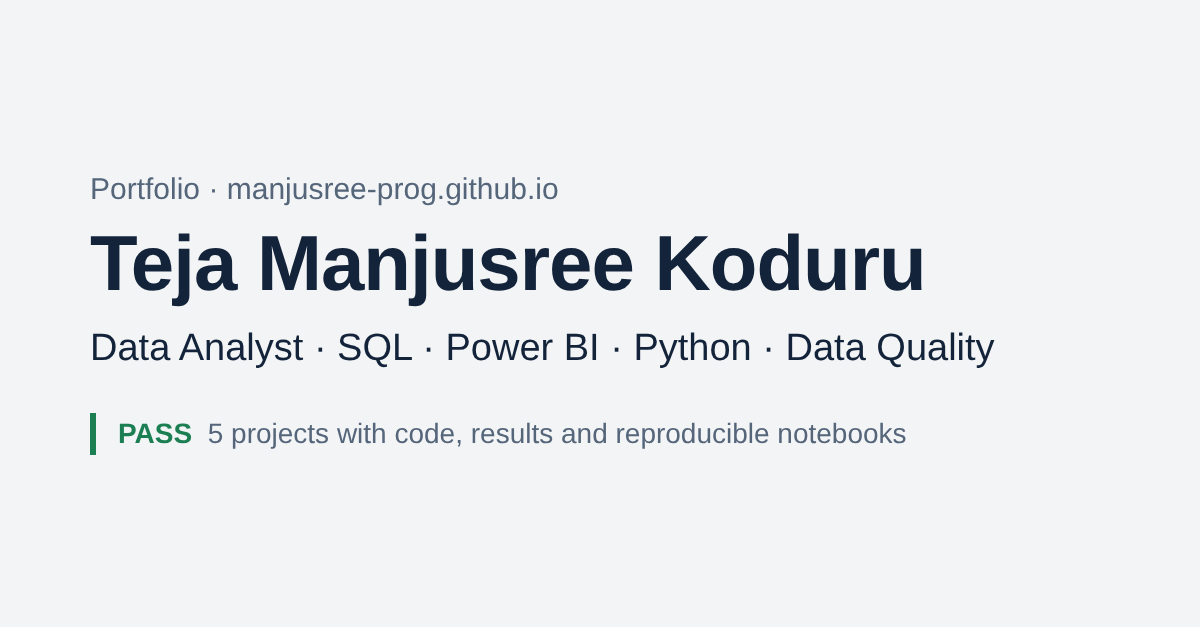
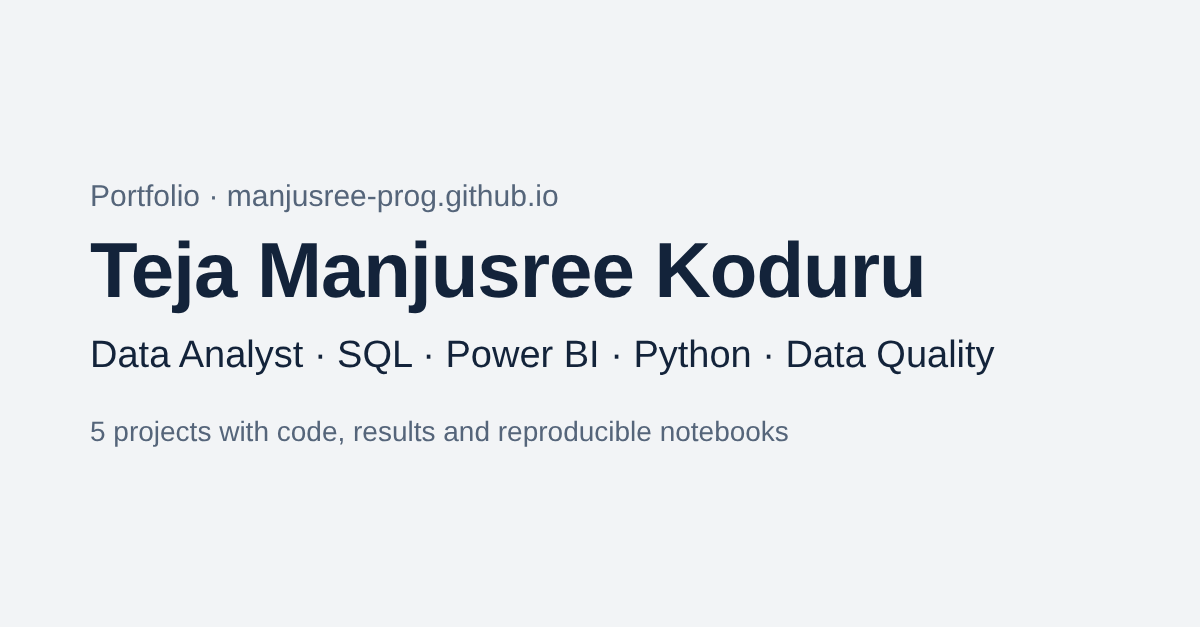
Remove checks list from hero section

diff --git a/index.html b/index.html
@@ -74,15 +74,7 @@ footer .actions{margin-top:0}
 <header class="hero">
   <h1>Teja Manjusree Koduru</h1>
   <p class="role">Data analyst in Essen, Germany. I work with SQL, Power BI and Python, and I bring five years of software quality assurance to every analysis: I check the data before I trust the result.</p>
-  <div class="run" aria-label="Checks I run before reporting a result">
-    <p>Checks I run before any result leaves my notebook</p>
-    <ul>
-      <li><span class="ok">PASS</span><span>Duplicates, missing values and "unknown" codes handled</span></li>
-      <li><span class="ok">PASS</span><span>No information from the future leaks into the model</span></li>
-      <li><span class="ok">PASS</span><span>Results confirmed with cross-validation, not one lucky split</span></li>
-      <li><span class="ok">PASS</span><span>Every number translated into a business decision</span></li>
-    </ul>
-  </div>
+  
   <div class="actions">
     <a class="btn" href="Teja-Koduru-CV.pdf">Download CV (PDF)</a>
     <a href="https://www.linkedin.com/in/teja-manjusree-25856b138">LinkedIn</a>
